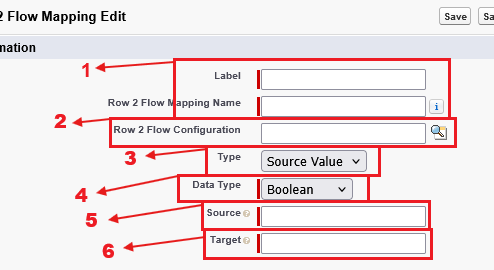
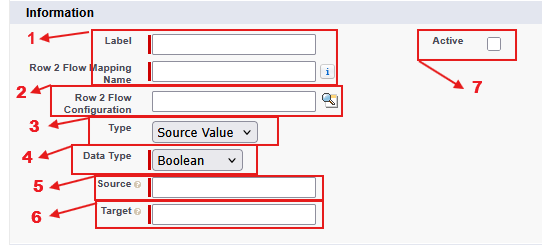
clarify some instructions, fix & add images

Changed region(s): [[0.0304, 0.0, 1.0, 0.9714], [0.0, 0.0286, 0.2733, 0.0857], [0.0, 0.1143, 0.1215, 0.2286]]

diff --git a/README.md b/README.md
@@ -19,27 +19,27 @@ Setting up a Row2Flow "action" consists of configuring 2 custom metadata types: 
 First, create your configuration with top level details such as Flow API Name, source type, source identifier, etc.
     ![configSetup](images/configSetup.png)
 
-1. Enter a user friendly readable label for this Row2Flow action; you can auto-complete the API Name or change it yourself. **Note** this API Name will be important as it is used to identify this action for invocation
-2. Set the Flow API Name of your target flow for this action ![flowAPI](images/flowAPI.png)
-3. Choose your source type; current options are **Report** **List View** and **SOQL**
-4. Set your batch size - this will determine how many flow invocations will occur per batch chunk. IE if you have a report with 100 records and a batch size of 5, then the Batch Apex will execute in 20 chunks, each chunk running your flow 5 times.
-5. Post Row2Flow action exectuion settings
+1. Label & Name: Enter a user friendly readable label for this Row2Flow action; you can auto-complete the API Name or change it yourself. **Note** this API Name will be important as it is used to identify this action for invocation
+2. Flow API: Set the Flow API Name of your target flow for this action ![flowAPI](images/flowAPI.png)
+3. Source Type: Choose your source type; current options are **Report**, **List View**, and **SOQL**
+4. Batch Size: Set your batch size - this will determine how many flow invocations will occur per batch chunk. IE if you have a report with 100 records and a batch size of 5, then the Batch Apex will execute in 20 chunks, each chunk running your flow 5 times.
+5. Generate Run Results Details: Post Row2Flow action exectuion settings
     - Generate a "Row2Flow Results" sObject record with basic information about the run![row2FlowResult](images/row2flowResult.png)
     - Generate a text file that attaches to the results recovered to provide row level status of success or failure, and if failure, the associated error message
-6. Fill out this section if **Report** option was chosen in (3)
+6. Report Details: Fill out this section if **Report** option was chosen in (3)
     - A unique column header field on the report is required. This can be the record Id field or other unique field. **Note** it is recommended to verify the field API for the unique column header by using the [print report columns utility](README.md#print-report-columns).
     - The report Id\
          ![reportIdFromURL](images/reportIdFromUrl.png)  
          or API Name\
          ![reportAPIUniqueName](images/reportAPIUniqueName.png)
 
-7. Fill out if **SOQL** option was chosen in (3) - the value of this field should start with the source sObject API and any filter conditions; SELECT fields can be omitted as they will automatically prepended to the query string based on the source values from the children mapping records.\
+7. SOQL Details: Fill out if **SOQL** option was chosen in (3) - the value of this field should start with the source sObject API and any filter conditions; SELECT fields can be omitted as they will automatically prepended to the query string based on the source values from the children mapping records.\
     ![soqlExample](images/soqlExample.png)
 
-8. Fill out if **List View** option was chosen in (3)\
+8. List View Details: Fill out if **List View** option was chosen in (3)\
    ![listViewAPI](images/listViewAPI.png)
 
-9. Active toggle if the Row2Flow action should be invocable or not.
+9. Active: Active toggle if the Row2Flow action should be invocable or not.
 
 ### Row 2 Flow Mapping
 Next, create your mappings of row source data values to target inputs of your flow.
@@ -52,16 +52,20 @@ Next, create your mappings of row source data values to target inputs of your fl
 5. Choose the source row field API name. For SOQL and List View, this should almost always be the field API; for Report, many standard fields have non-intuitive API names, but you can use the [print report columns utility](README.md#print-report-columns) utility method to confirm 
 6. Set your target flow variable; this **must** be set to "Available for input" in the varibale's options.\
     ![flowInputVarOption](images/flowInputVarOption.png)
+7. Active toggle if the mapping should occur or not when the parent configuration is run.
+
+Below is what a sample set of mappings could look like:\
+    ![mappingSamples](images/mappingSamples.png)
 
 ## Execution
-With your config and mapping records created, you can run it ad-hoc by executing the below code snippet in execute anonymous, ensuring to set the ```configAPIName``` variable to the same exact value from step (2) in the [configuration record setup](README.md#row-2-flow-configuration).
+With your config and mapping records created, you can run it ad-hoc by executing the below code snippet in execute anonymous, ensuring to set the ```configAPIName``` variable to the same exact value from step (1) in the [configuration record setup](README.md#row-2-flow-configuration).
 ```
 String configAPIName = '<your config record API name goes here>';
 Row2FlowInvocable.Input inp = new Row2FlowInvocable.Input();
 inp.configName = configAPIName;
 Row2FlowInvocable.run(new List<Row2FlowInvocable.Input>{inp});
 ```
-To run on a scheduled, create a scheduled flow (a) with the target object as "Row 2 Flow Configuration" custom metadata type and filter conditions **Custom Metadata Record Name** = same exact value from step (2) in the [configuration record setup](README.md#row-2-flow-configuration). Add a single action element(b) using "Row2FlowInvocable"(c) and passing the triggering record to the config input attribute(d).\
+To run on a schedule, create a scheduled flow (a) with the target object as "Row 2 Flow Configuration" custom metadata type and filter conditions **Custom Metadata Record Name** = same exact value from step (1) in the [configuration record setup](README.md#row-2-flow-configuration). Add a single action element(b) using "Row2FlowInvocable"(c) and passing the triggering record to the config input attribute(d).\
     a.   ![scheduledFlowConfig](images/scheduledFlowConfig.png)\
     b.   ![flowAddActionElement](images/flowAddActionElement.png)\
     c.   ![flowSearchActions](images/flowSearchActions.png)\
@@ -77,6 +81,8 @@ If you have any system or integration users tied to daily Apex test runs or CI/C
 ## Utilities
 
 ### Print Report Columns
+This outputs what will be needed for the **Source** values in mappings for report based configurations. Many fields, including standard fields, do not match the corresponding API name. For example, the record Id field for Account on a report is not ```Id``` but rather ```ACCOUNT_ID```
+
 1. Open developer console.\
    ![openDevConsole](images/openDevConsole.png)
 2. On the menu bar, click debug; select Open Execute Anonymous Window.\
